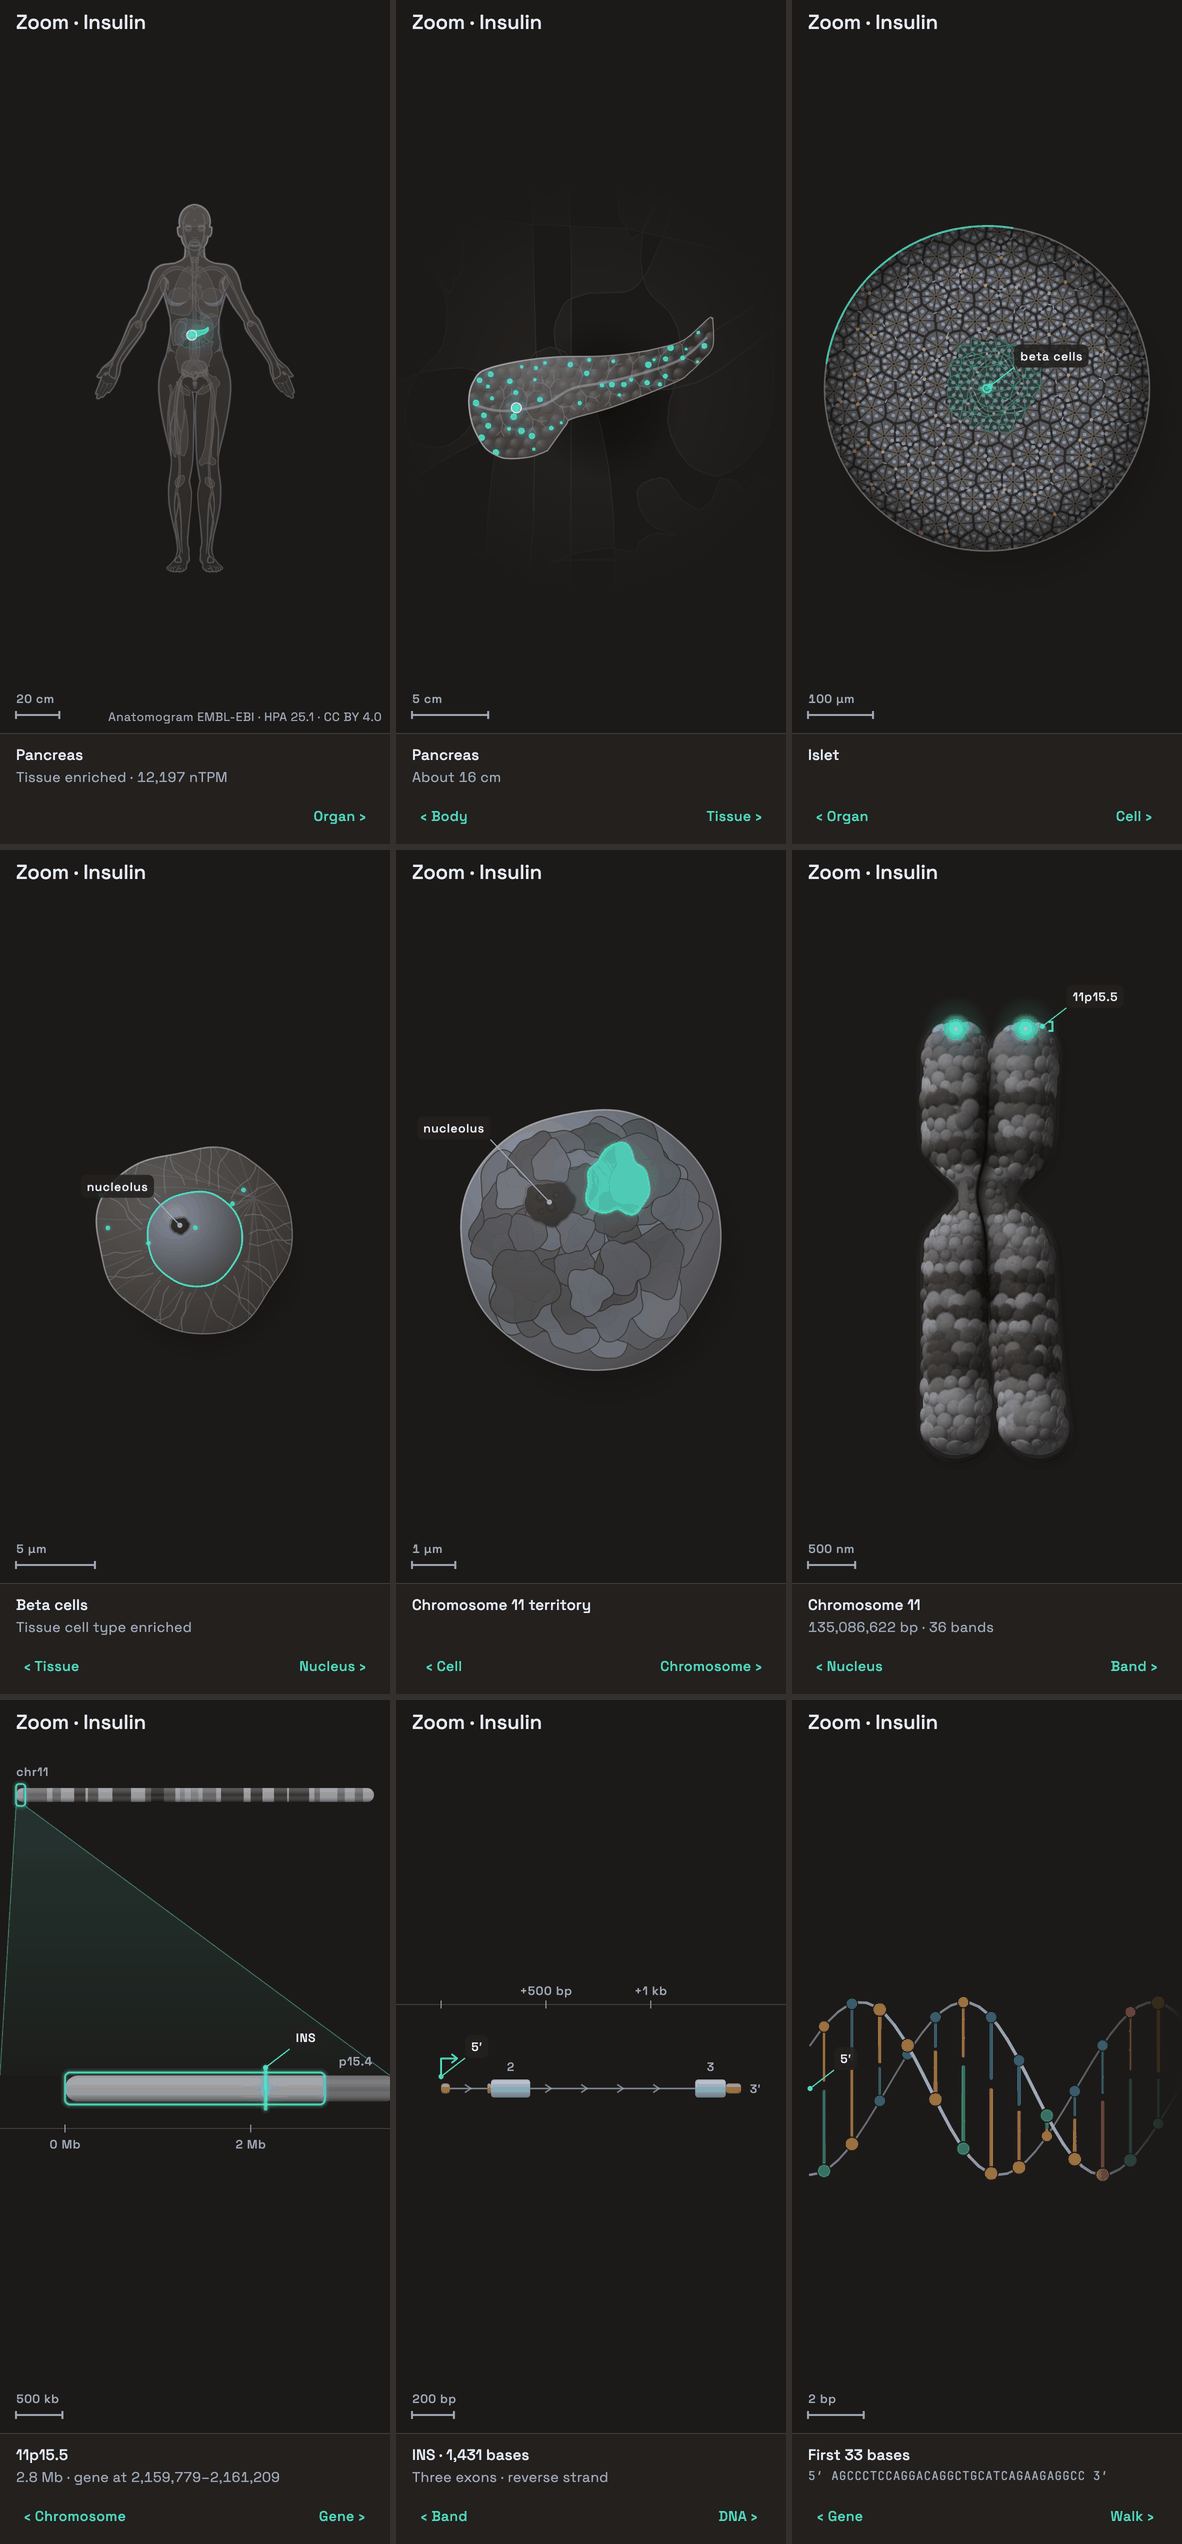
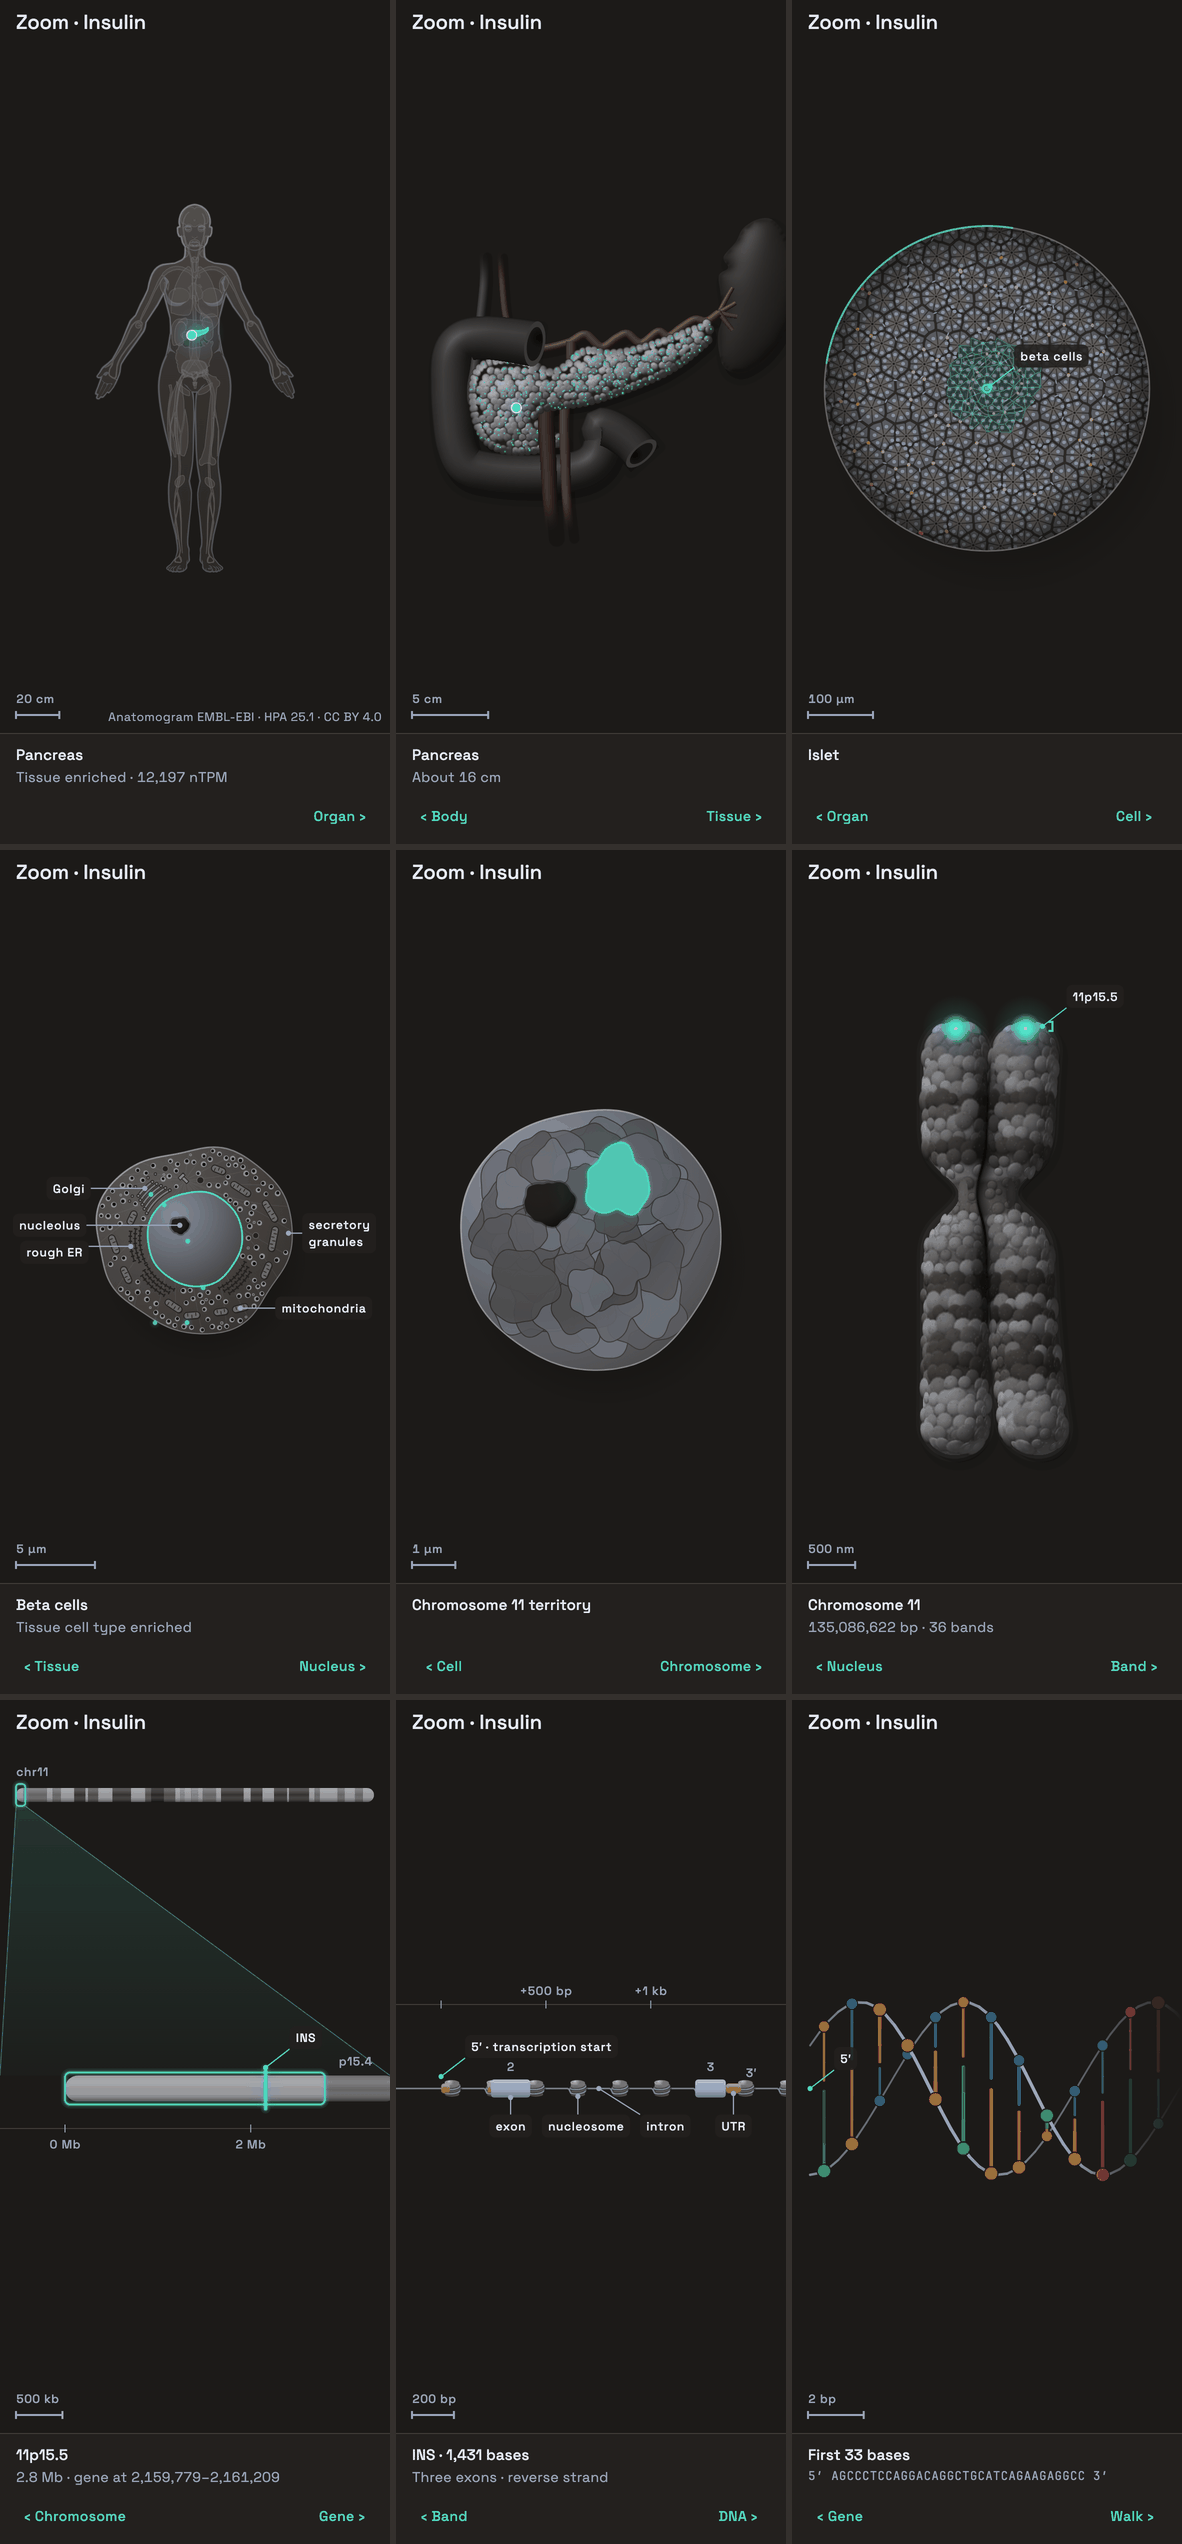
docs: the zoom's pancreas drawn from anatomy
zoom.md: the pancreas among the research (an anatomy plate's view, its
islets' size and their density toward the tail, its duct's calibre;
Standring 2020, Ricordi et al. 1990, Wang et al. 2013, Sivak and
Sullivan 1976, each checked), a section on how it is drawn and comes up
on the step, its simplifications, files and tests, and the organ table
without it. The user chose true-size lobules and the bile duct where it
really shows. CLAUDE.md's zoom bullet says the pancreas is drawn from
anatomy. The hero is insulin's nine stops as the code draws them now.

diff --git a/docs/design/zoom.md b/docs/design/zoom.md
@@ -79,6 +79,21 @@ convention is, where it comes from, and what it decided:
   standing figure with a shape for each tissue, named by its UBERON id.
   *Consequence:* the body and the organ are those shapes, glowing by the
   Atlas's level.
+- **The pancreas.** Anatomy plates show it from the front with the stomach
+  taken away: its head in the C of the duodenum, the uncinate process
+  hooked behind the superior mesenteric vessels, the neck over them, the
+  body across the spine and the tail at the spleen's hilum; the splenic
+  artery winding along its upper border from the coeliac trunk; the bile
+  duct coming down behind the duodenum's first part and the head to the
+  ampulla on the second part, where the main duct meets it, the accessory
+  duct opening above (Standring 2020). Its surface is lobulated. Its
+  islets, a million or more, are each some 150 µm across, the size islet
+  isolation counts them by (Ricordi et al. 1990), and lie more than twice
+  as densely in the tail as in the head or the body (Wang et al. 2013).
+  Its main duct narrows from about 3 mm in the head to 1 mm in the tail
+  (Sivak and Sullivan 1976). *Consequence:* the pancreas is drawn so, from
+  anatomy rather than from the anatomogram's outline ("The pancreas"
+  below).
 - **Histology.** Haematoxylin stains nuclei and ribosome-rich cytoplasm;
   eosin stains protein; fat, mucus and lumens take neither. A ×40 objective
   under a standard eyepiece shows a field about half a millimetre across.
@@ -223,6 +238,8 @@ Sources:
   chromosomes. Cell 1977;12:817–828.
 - Poonperm R et al. Chromosome scaffold is a double-stranded assembly of
   scaffold proteins. Sci Rep 2015;5:11916.
+- Ricordi C et al. Islet isolation assessment in man and large animals.
+  Acta Diabetol Lat 1990;27:185–195.
 - Schones DE et al. Dynamic regulation of nucleosome positioning in the
   human genome. Cell 2008;132:887–898.
 - Schröck E et al. Multicolor spectral karyotyping of human chromosomes.
@@ -230,8 +247,12 @@ Sources:
 - Shemilt LA et al. Scanning electron microscope studies of human
   metaphase chromosomes. Philos Trans A Math Phys Eng Sci
   2014;372:20130144.
+- Sivak MV, Sullivan BH. Endoscopic retrograde pancreatography. Am J Dig
+  Dis 1976;21:263–269.
 - Speicher MR, Ballard SG, Ward DC. Karyotyping human chromosomes by
   combinatorial multi-fluor FISH. Nat Genet 1996;12:368–375.
+- Standring S (ed.). Gray's Anatomy: The Anatomical Basis of Clinical
+  Practice, 42nd edn. Elsevier, 2020.
 - Sumner AT. Scanning electron microscopy of mammalian chromosomes from
   prophase to telophase. Chromosoma 1991;100:410–418.
 - Thul PJ et al. A subcellular map of the human proteome. Science
@@ -247,6 +268,9 @@ Sources:
 - Walther N et al. A quantitative map of human Condensins provides new
   insights into mitotic chromosome architecture. J Cell Biol
   2018;217:2309–2328.
+- Wang X et al. Regional differences in islet distribution in the human
+  pancreas: preferential beta-cell loss in the head region in patients
+  with type 2 diabetes. PLoS One 2013;8:e67454.
 
 ## Visual language
 
@@ -388,7 +412,9 @@ own edge.
 body drew for it (`OrganArt`), so the step is one shape seen closer. It
 comes up over the body's own drawing of the organ early in the step, and
 `zoom_anatomy_test` holds the two to the same point of the screen while both
-show. On the way in, the body's line art and its unlit organs give way.
+show. On the way in, the body's line art and its unlit organs give way. The
+pancreas alone then draws in to an outline of its own ("The pancreas"
+below).
 
 **Its real size.** The anatomogram is a diagram: it draws a stomach 11 cm
 long and a pancreas 9. Each organ therefore knows how many times its drawn
@@ -399,15 +425,16 @@ shows where in it the tissue is sampled, and gives way to the loupe as it
 opens there.
 
 **In place.** The figure's own parts near the organ are drawn faintly round
-it, fading with their distance from it.
+it, fading with their distance from it. The pancreas has its own neighbours
+instead, and the figure's parts go as they come up.
 
-**Its anatomy.** The twenty's paths reach thirteen organs. Ten kinds have a
-study of their own (`OrganStudy`), and in each the part the zoom's cell
-lives in is in the accent, by the kind of organ and of cell, never by gene:
+**Its anatomy.** The twenty's paths reach thirteen organs. Nine kinds have a
+study of their own (`OrganStudy`), and the pancreas a drawing of its own
+(below); in each the part the zoom's cell lives in is in the accent, by the
+kind of organ and of cell, never by gene:
 
 | Organ (proteins) | Drawn | In the accent |
 |---|---|---|
-| Pancreas (INS, GCG, CFTR) | lobules, the main duct along its length | the islets, more toward the tail (INS, GCG); the duct tree (CFTR) |
 | Salivary gland (AMY1A, LYZ) | lobules, the duct out of its hilum | the acini |
 | Bone marrow (HBB, TNF) | the anatomogram's femur cut along its length: cortex, spongy ends, the shaft's cavity | the red marrow in the spongy ends |
 | Liver (EPO, SOD1) | two lobes either side of the falciform ligament, portal vessels from the hilum | the lobules, as a honeycomb |
@@ -441,6 +468,50 @@ Where the anatomogram has no outline that shows a tissue, the organ is
 drawn from general anatomy: a length of artery, a block of skin, a
 parathyroid gland on the back of the thyroid, the eye cut level with the
 retina lining it.
+
+**The pancreas.** It is drawn as a fresh specimen under the zoom's one lamp,
+with the stomach taken away (`presentation/scenes/pancreas/`, the user's
+choices of 2026-10-18), and in the neutrals but for its vessels and the
+accent:
+
+- *Its shape* is an anatomy plate's (`pancreas_anatomy.dart`, in
+  centimetres on a gland 16 cm long): head, uncinate process, neck, body
+  and tail. It is as wide as the anatomogram's outline grows to and about
+  its middle, and the anatomogram's site stays its site, in the head on
+  either figure.
+- *Its surface.* The outline is inflated into a rounded relief (φ with
+  ∇²φ = −1 inside and 0 outside, the height √(2φ): round in section, the
+  head thicker). Some three hundred lobules of about 4.6 mm lie on it,
+  their true size (the user's choice over an exaggerated 7 mm), gathered
+  into lobes about a centimetre across with deeper clefts between them.
+  Each lobule is a lit dome with a moist sheen, the gland darker toward its
+  silhouette. They are meshes (`ColouredMesh`, which the chromosome's are
+  laid with too), built once for a set of inks, ahead of the stop.
+- *Round it,* dimmer than the gland: the duodenum's C, its first part in
+  front of the head and its cut ends open; the spleen beyond the tail; the
+  coeliac trunk, the splenic artery winding in and out along the upper
+  border, the hepatic arteries; the superior mesenteric vein and artery
+  coming from under the neck, over the uncinate process and the duodenum's
+  third part; the bile duct, seen where it really shows from the front,
+  above the duodenum and in the crease beside the head (the user's choice
+  over a faint course through the head). The vessels are in the blood red,
+  the veins darker. Nothing is named: the card names the organ.
+- *In the accent,* by the zoom's cell: for an endocrine cell its islets, a
+  few hundred drawn at their true size (80 to 240 µm across, never less
+  than a pixel), more of them toward the tail and where the gland is
+  thicker; for a duct cell the gland's front cut away along the main duct,
+  its ducts in the accent over the cut face's septa, the accessory duct to
+  its papilla and the bile duct joining at the ampulla, the cut's wall in
+  shade on the side facing the light and lit on the other; for any other
+  cell its lobules washed in the accent.
+- *On the step from the body* the hand-over is the anatomogram's flat lit
+  outline, drawn as every organ's is. It then draws in to the gland's
+  outline, matched at the top of the tail and the outer edge of the head,
+  and becomes the bed the lobules lie on, while the gland and its
+  neighbours come up over it in one layer and the figure's parts go. Both
+  follow the organ's detail itself (the gland as its 1.25th power), which
+  rises at most 0.074 a frame: a fade over part of it would change faster
+  than the 0.08 a frame the zoom allows.
 
 **The glide.** The camera carries the organ from where it lies in the body
 to the middle of the view over the first three fifths of the step. From the
@@ -884,6 +955,12 @@ frame (0.4 to 0.8 ms).
 - **An organ's anatomy is its kind's.** Islets, red marrow and tubules are
   drawn where general anatomy puts them, by the kind of organ and cell,
   not measured for the gene.
+- **A pancreas from a plate.** Its shape is the same on every figure, only
+  scaled to the outline the figure draws and sampled where the figure
+  says. Its neighbours are those a plate shows with the stomach, the liver
+  and the colon taken away. A million islets are a few hundred, at true
+  size, placed by chance weighted to the tail; the ducts show only for a
+  duct cell, through a cut cleaner than any dissection.
 - **One field a tissue.** Wherever in the organ it is cut, and for every
   gene that goes there with the same kind of cell. "Lymphoid tissue" is a
   lymph node, and skin has no keratin layer of its own.
@@ -930,7 +1007,14 @@ frame (0.4 to 0.8 ms).
   and their light and palette (`chromosome_shading.dart`), and the tube it
   turns into the band's strip as (`chromosome_tube.dart`).
 - `presentation/scenes/organ_art.dart`: every organ's drawing, and
-  `organ_studies.dart`, the ten studies.
+  `organ_studies.dart`, the nine studies.
+- `presentation/scenes/pancreas/`: the pancreas and its neighbours in
+  centimetres (`pancreas_anatomy.dart`), every number its look is tuned by
+  (`pancreas_style.dart`), its form in the organ's scene, with the relief,
+  lobules, islets, tubes and window (`pancreas_form.dart`), the light and
+  palette (`pancreas_shading.dart`) and the meshes and how the step comes
+  up (`pancreas_art.dart`). `presentation/scenes/coloured_mesh.dart`: the
+  coloured meshes it and the chromosome are laid with.
 - `presentation/scenes/tissue/`: the slide (`tissue_slide.dart`), the engine
   (`slide_builder.dart`) and the recipes (`recipes_glands.dart`,
   `recipes_linings.dart`, `recipes_bulk.dart`).
@@ -953,7 +1037,8 @@ frame (0.4 to 0.8 ms).
   moments; `ZOOM_MOMENTS=nucleus+2,nucleus+10,chromosome` draws those
   moments and no others (a stop, or a share of the step that leaves it). `ZOOM_TISSUE_ATLAS=/tmp/atlas` writes every recipe's slide on
   its own and `ZOOM_ORGAN_ATLAS=/tmp/organs` every tissue's organ, the ones
-  no catalog protein reaches included. The picture at the top of this page
+  no catalog protein reaches included, and the pancreas on both figures
+  about each kind of cell that lights a part of it of its own. The picture at the top of this page
   is insulin's nine stops from it.
 - The chromosome's tests: `chromosome_scene_test` (nothing narrower than
   its arms but the centromere and the ends), `chromosome_form_test` (the
@@ -990,6 +1075,18 @@ frame (0.4 to 0.8 ms).
   with its site and its accent inside its outline. `zoom_domain_test` holds
   the figures themselves: 1.70 m tall, every part inside its figure with its
   site inside it, and the generated file to its source, commit and licence.
+- `pancreas_form_test` holds the pancreas's site to the anatomogram's, well
+  inside the head at every stage of the step, the gland to its real size
+  about the same middle, the step's outline to the very curve the body drew
+  at its start, the lobules tiling the gland (none in two, few in none, the
+  edge knobbly by at most half a lobule), the mesenteric vessels over the
+  uncinate process from under the neck, the duodenum round the head with
+  both ducts meeting at its wall, the islets denser in the tail third by
+  at least half again, the window holding the site and the main duct, and
+  the same gland every time. `pancreas_art_test` holds the hand-over to the
+  body's own outline with no layer, mesh or islet drawn, the accent to
+  where the cell lives and never round the gland, the meshes the same every
+  time, and the steps to it and back to 0.08 a frame and 1.5 px.
 - `zoom_routes_test` holds the route outside the lab, the redirects, and the
   whole trip from the walk and back under the app's own routes.
   `zoom_entry_test`, among the walk's tests, holds where the gene page

diff --git a/CLAUDE.md b/CLAUDE.md
@@ -272,7 +272,10 @@ seen:
   `tool/zoom/anatomogram.py` generates `anatomy_figures.g.dart` from it,
   and the body carries its credit, with the Atlas's, in one caption line;
 - the organ as the same outline, grown to its real size and sculpted, the
-  figure's parts faint round it, and inside it the gene's place;
+  figure's parts faint round it, and inside it the gene's place; the
+  pancreas alone is drawn from anatomy (`presentation/scenes/pancreas/`), a
+  lit specimen of lobules among its duodenum, spleen and vessels, which its
+  scene draws in to from the body's outline;
 - the tissue as a section under an eyepiece (`TissueSlide`: one engine, a
   recipe a tissue architecture, the zoom's cell laid where it lives);
 - the cell, the protein glowing where the Atlas finds it, and the nucleus
